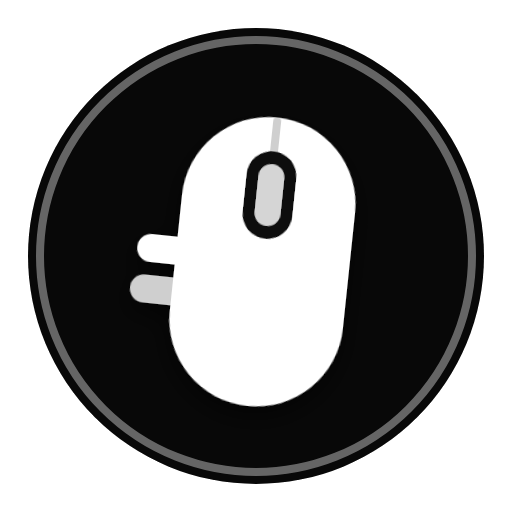
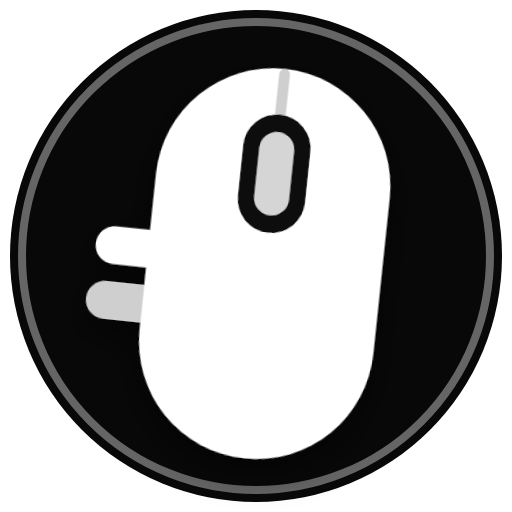
优化了UI页面

diff --git a/src/gui/MainWindow.xaml b/src/gui/MainWindow.xaml
@@ -87,15 +87,6 @@
                     <ColumnDefinition Width="145" />
                 </Grid.ColumnDefinitions>
 
-                <StackPanel Orientation="Horizontal" VerticalAlignment="Center">
-                    <Border Width="30" Height="30" CornerRadius="9" Background="{StaticResource PrimaryBrush}">
-                        <TextBlock Text="W" Foreground="White" FontSize="14" FontWeight="Bold"
-                                   HorizontalAlignment="Center" VerticalAlignment="Center" />
-                    </Border>
-                    <TextBlock Text="Win Mouse Fix" Margin="8,0,0,0" FontSize="13" FontWeight="SemiBold"
-                               VerticalAlignment="Center" />
-                </StackPanel>
-
                 <Border Grid.Column="1" HorizontalAlignment="Center" VerticalAlignment="Center"
                         Background="#EEF0F3" CornerRadius="10" Padding="3">
                     <StackPanel Orientation="Horizontal">
@@ -418,10 +409,9 @@
                                     <TextBlock Text="Win Mouse Fix" Style="{StaticResource SectionTitle}" />
                                     <TextBlock x:Name="AboutVersionText" Text="版本" Foreground="{StaticResource MutedTextBrush}" />
                                 </StackPanel>
-                                <Border Grid.Column="1" Width="48" Height="48" CornerRadius="14" Background="{StaticResource PrimaryBrush}">
-                                    <TextBlock Text="W" Foreground="White" FontSize="20" FontWeight="Bold"
-                                               HorizontalAlignment="Center" VerticalAlignment="Center" />
-                                </Border>
+                                <Image Grid.Column="1" Width="48" Height="48" Source="/assets/WinMouseFix.png"
+                                       Stretch="Uniform" SnapsToDevicePixels="True"
+                                       AutomationProperties.Name="Win Mouse Fix 图标" />
                             </Grid>
 
                             <Grid>

diff --git a/tests/manual/mvp-checklist.md b/tests/manual/mvp-checklist.md
@@ -17,15 +17,16 @@
 | GEN-03 | 关闭设置窗口后使用已设置的鼠标动作 | 窗口隐藏到托盘，Win Mouse Fix 继续运行 |
 | GEN-04 | 从托盘菜单停止和启动 Win Mouse Fix | 通用页拨动开关、顶部状态和实际鼠标行为保持一致 |
 | GEN-05 | 从托盘菜单点击“退出” | GUI、托盘和 AutoHotkey v2 核心全部退出 |
-| GEN-06 | 依次切换顶部“通用、按钮、滚动、关于” | 窗口高度平滑匹配页面内容；页面内不重复显示大标题，顶部选择器和文字不重叠 |
+| GEN-06 | 依次切换顶部“通用、按钮、滚动、关于” | 窗口高度平滑匹配页面内容；页面内不重复显示大标题；顶部只显示居中的页面选择器和右侧状态，不显示品牌图标或名称 |
 | GEN-07 | 首次启动程序 | 窗口在当前屏幕中间打开，并且不超出屏幕边界 |
 | GEN-08 | 依次查看四个页面的主要内容区域 | 录入框、映射表、说明和设置区域均为约 620px，左右边界保持一致 |
 | GEN-09 | 连续启动 `WinMouseFix.exe` 两次 | 第二次不创建新的设置窗口、托盘图标或鼠标核心，已有窗口被显示到前台 |
 | GEN-10 | 打开“关于”页 | 显示版本、作者胡文凯、个人非商业使用许可、项目主页和三个操作按钮 |
 | GEN-11 | 点击“检查更新” | 能连接 GitHub Releases；无公开版本时显示明确提示，有新版时询问是否打开下载页面，检查期间按钮不可重复点击 |
 | GEN-12 | 断开网络后点击“检查更新” | 页面不退出，并显示连接失败或超时提示 |
-| GEN-10 | 运行 `WinMouseFix.exe --background` | 设置窗口不显示；托盘和鼠标核心正常启动，从托盘打开后显示设置窗口 |
-| GEN-11 | 开启“登录 Windows 后运行”，注销并重新登录 | Win Mouse Fix 静默进入托盘，设置窗口不自动弹出，鼠标设置正常生效 |
+| GEN-13 | 运行 `WinMouseFix.exe --background` | 设置窗口不显示；托盘和鼠标核心正常启动，从托盘打开后显示设置窗口 |
+| GEN-14 | 开启“登录 Windows 后运行”，注销并重新登录 | Win Mouse Fix 静默进入托盘，设置窗口不自动弹出，鼠标设置正常生效 |
+| GEN-15 | 分别在 Windows 缩放比例 100%、125%、150% 下查看通知区域 | Windows 从 ICO 中选择 16×16、20×20、24×24 对应资源，鼠标主体大小与相邻通知区域图标接近且边缘清楚 |
 
 ## 按键与动作
 
@@ -95,6 +96,7 @@
 | PKG-04 | 开启登录运行后卸载程序 | 程序文件、开始菜单入口和登录运行登记被移除；`%AppData%\WinMouseFix` 中的设置保留 |
 | PKG-05 | 复制新版 `dist/app` 覆盖旧便携目录后启动，再从托盘退出并删除目录 | `%AppData%\WinMouseFix` 中的用户设置保留；退出后没有残留进程，发布目录可删除 |
 | PKG-06 | 运行 `build.ps1` 并检查体积报告 | GUI 主程序及其依赖合计不超过 10 MiB；鼠标核心、`config/` 和 `assets/` 不计入该数值 |
+| PKG-07 | 安装时查看目标目录页，浏览并选择当前用户可写的自定义目录 | 默认目录为 `%LocalAppData%\Programs\Win Mouse Fix`；可成功修改目录，安装后程序、开始菜单入口和卸载功能均正常 |
 
 ## 结果
 

diff --git a/docs/release-guide.md b/docs/release-guide.md
@@ -21,7 +21,7 @@
 ## 安装行为
 
 - 安装前检查 .NET Framework 4.8。
-- 默认安装到 `%LocalAppData%\Programs\Win Mouse Fix`，不要求管理员权限。
+- 默认安装到 `%LocalAppData%\Programs\Win Mouse Fix`，用户可在安装时浏览并修改目录；安装程序不要求管理员权限，因此应选择当前用户有写入权限的位置。
 - 自动创建开始菜单入口，桌面快捷方式由用户选择。
 - 安装完成后可直接启动 Win Mouse Fix。
 - AutoHotkey v2 已包含在鼠标核心中，用户无需单独安装。